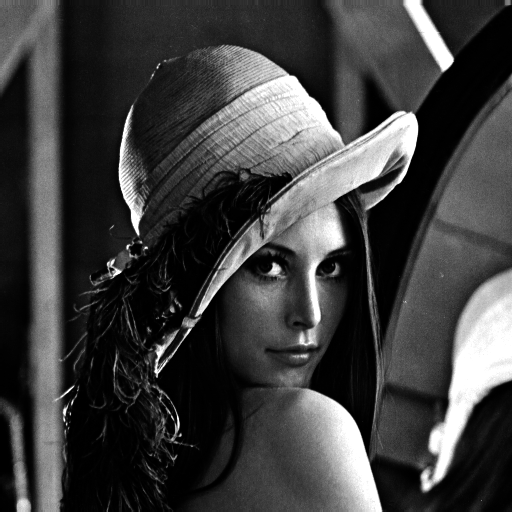
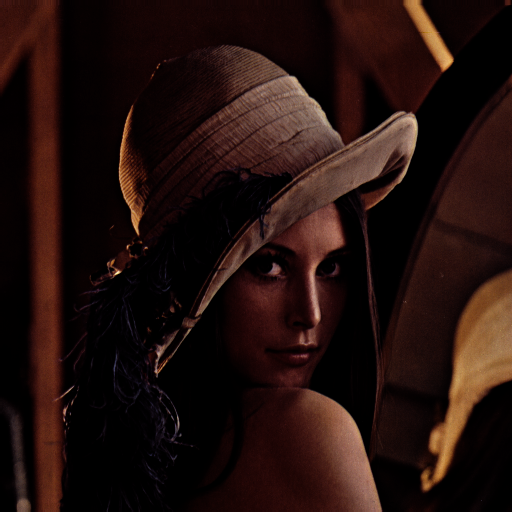
add conversion back to radiance after tonemap

diff --git a/tonemap/main.cpp b/tonemap/main.cpp
@@ -156,6 +156,7 @@ auto init_data(std::string_view filename) {
   
   descriptors["apply_tonemap"].bind("cfg", *config);
   descriptors["apply_tonemap"].bind("in_data", *tonecurve);
+  descriptors["apply_tonemap"].bind("radiance_tex", *image);
   descriptors["apply_tonemap"].bind("input_tex", *intensity);
   descriptors["apply_tonemap"].bind("output_tex", *output);
 } 
